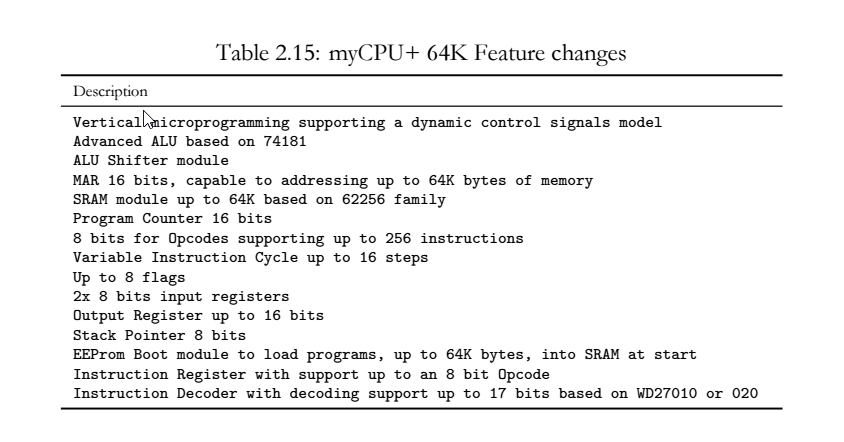
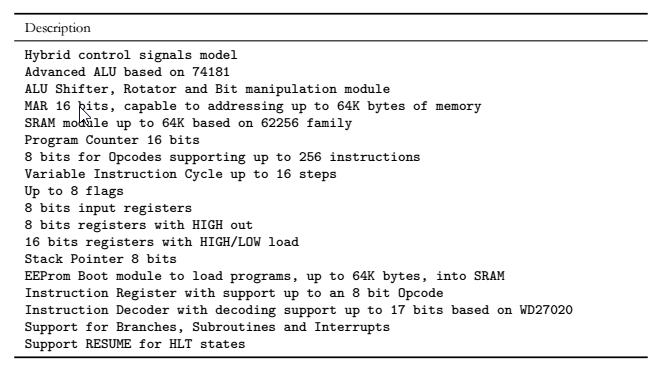
Update Introduction content, tables and pictures

Changed region(s): [[0.03, 0.0293, 0.991, 0.968], [0.6607, 0.704, 0.7508, 0.7627]]

diff --git a/pages/en/mycpu/introduction.md b/pages/en/mycpu/introduction.md
@@ -386,7 +386,7 @@ The myCPU is a basic approximation of an early CPU with limited capabilities com
 Next image shows an example of the instruction cycle for the ADD instruction:
 
 <figure class="center">
-    <img src="{{ site.baseurl }}/img/mycpu/diagrams/myCPU_instruction_cycle_flow.png" alt="Instruction cycle example" title="Example of ADD Instruction cycle" width="850">
+    <img src="{{ site.baseurl }}/img/mycpu/diagrams/mycpu_instruction_cycle_flow.png" alt="Instruction cycle example" title="Example of ADD Instruction cycle" width="730">
     <figcaption>ADD Instruction cycle sample diagram</figcaption>
 </figure>
 
@@ -444,7 +444,7 @@ In the myCPU the decoding of an instruction is based on the address for the memo
 {: style="text-align: justify"}
 
 <figure class="center">
-    <img src="{{ site.baseurl }}/img/mycpu/diagrams/mycpu_encoding_parts.png" alt="myCPU Encoding Parts" title="myCPU Encoding Part" width="600">
+    <img src="{{ site.baseurl }}/img/mycpu/diagrams/mycpu_encoding_parts.png" alt="myCPU Encoding Parts" title="myCPU Encoding Part" width="440">
 </figure>
 
 The **Sequencer** determine the current step or state of the instruction cycle, in the myCPU the sequence is up to 8 steps. The sequencer step value is used in a multiplexed form as part of the encoding address, so is 3 bits length.
@@ -462,82 +462,134 @@ Therefore, the decoding address for the microinstruction to execute  will be det
     <img src="{{ site.baseurl }}/img/mycpu/tables/myCPU_micro_encoding_parts.png" alt="myCPU Microinstruction encoding parts" title="myCPU Microinstruction encoding parts" width="600">
 </figure>
 
+<figure class="center">
+    <img src="{{ site.baseurl }}/img/mycpu/schematics/myCPU_Decoder_AddrBitOrder.png" alt="Instruction decoder address bit order" title="Instruction decoder address bit order" width="400">
+    <figcaption>Instruction Decoder address bit order</figcaption>
+</figure>
+
 The **Memory Selection** bits determine which memory unit will be used to encode or decode each byte part of a microinstruction. In the myCPU design, a microinstruction is composed of 24 bits or 3 bytes, which are handled by three memory units.
 {: style="text-align: justify"}
 
 <figure class="center">
-    <img src="{{ site.baseurl }}/img/mycpu/diagrams/mycpu_micro_parts.png" alt="myCPU Microinstruction parts" title="myCPU Microinstruction parts" width="600">
-</figure>
-
-<figure class="center">
-    <img src="{{ site.baseurl }}/img/mycpu/schematics/myCPU_Decoder_AddrBitOrder.png" alt="Instruction decoder address bit order" title="Instruction decoder address bit order" width="400">
-    <figcaption>Instruction Decoder address bit order</figcaption>
+    <img src="{{ site.baseurl }}/img/mycpu/diagrams/mycpu_micro_parts.png" alt="myCPU Microinstruction parts" title="myCPU Microinstruction parts" width="500">
 </figure>
 
 The decoded microinstruction is passed to the **CSM** (control signals manager), which is responsible to expose the appropriate control signal values to the logic components of the myCPU.
 {: style="text-align: justify"}
 
 #### Testing and Debugging the myCPU
-The are two sets of switches to test the electronic behavior of the myCPU:
+The myCPU design has support for debugging by stepping the execution flow at a clock cycle level, viewing the state of the logic components of the CPU in real time. Through a set of DIP switches added on the CSM module, we can setup and execute isolated microinstructions whether partial or complete microinstruction, and see what happens on the logic components of myCPU. 
 {: style="text-align: justify"}
 
-The **BUS Manager** module in the myCPU design includes test switches that can be used to set the current values of the data BUS.
+In addition, the myCPU design has support for input test values to check module behavior or include test values in the debug process of a microinstruction through a set of DIP switches added on the BUS Manager module. In myCPU we can test and debug an entire instruction by testing and debugging the particular microinstructions that composed it.
 {: style="text-align: justify"}
 
-The **Control Signals Manager (CSM)** module also have test switches that enable the activation of individual control signals. By using the CSM switches, it is possible to test individual module actions or configure a real microinstruction by combining multiple switches at a time, to test, statically, the myCPU modules behavior when they are all acting together.       
+<figure class="center">
+    <img src="{{ site.baseurl }}/img/mycpu/tables/myCPU_switches.png" alt="myCPU Test and debug switches" title="myCPU Test and debug switches" width="500">
+    <figcaption>myCPU Test and debug switches</figcaption>
+</figure>
+
+#### Testing Modules
+In myCPU we can test the electronic and logic behavior of modules by introducing testing values through the BUS Manager module and set specific control signals through the CSM module. This is possible thanks to the debug mode of the clock module that enables the myCPU in stepping mode.
 {: style="text-align: justify"}
+
+The **BUS manager** has two DIP switches of 8 bits each to put a 16 bits test value on the Data BUS, by setting up a specific value on the switches and pressing the TEST button. 
+{: style="text-align: justify"}
+
+<figure class="center">
+    <img src="{{ site.baseurl }}/img/mycpu/mycpu_busmanager_switches_min.png" alt="myCPU BUS Manager switches" title="myCPU BUS Manager switches" width="400">
+    <figcaption>myCPU BUS Manager switches</figcaption>
+</figure>
+
+The **CSM module** has two DIP switches of 12 bits each, to set a test value for each individual control signal.
+By using the CSM switches, is possible to trigger module actions, or to configure a real microinstruction by combining multiple switches at a time.   
+{: style="text-align: justify"}
+
+<figure class="center">
+    <img src="{{ site.baseurl }}/img/mycpu/mycpu_csm_switches_min.png" alt="myCPU CSM switches" title="myCPU CSM switches" width="400">
+    <figcaption>myCPU CSM switches</figcaption>
+</figure>
 
 >Combining the BUS Manager and CSM switches you can reproduce a true runtime execution condition statically.
 
 ##### Microinstruction debugging and testing
-The myCPU Clock module enables running the myCPU one clock cycle at a time using a push button, which facilitates debugging and allows examination of each clock cycle during runtime. This module is based on the 555 timer, and is an original design by Ben Eater, who used it in his 8-bit breadboard computer. Furthermore, the clock module enables examination of the high and low states of the clock signal independently. This feature is especially interesting because the myCPU is a synchronized system, in which microinstructions are executed during the low state of the clock signal producing some changes in the myCPU status, while other changes in the myCPU status will occur during the next high state or high edge of the clock signal.
+The myCPU Clock module support a debug mode that enable running the myCPU at one clock step at a time using a push button. This debug mode facilitates the debugging by the view of the logic state of the modules statically in real time during the execution flow. The feature to view statically the state of the modules allows to check the current values of logic elements using a digital logic tester. 
+{: style="text-align: justify"}
+
+<figure class="center">
+    <img src="{{ site.baseurl }}/img/mycpu/mycpu_clock_debug_push_min.png" alt="myCPU CSM switches" title="myCPU CSM switches" width="400">
+    <figcaption>myCPU CSM switches</figcaption>
+</figure>
+
+We can build and test an entire microinstruction by removing the Instruction Decoder connector to CSM module and configure the CSM module test switches, checking what happens to the state of logic components at the **LOW** and **HIGH** part of the clock cycle using the debug mode of the clock module.
+{: style="text-align: justify"}
+
+In myCPU, a microinstruction is executed when a control signals string is placed on the control BUS. This take place when the sequencer moves to a new step of the execution cycle and this happens during the fall state of the clock signal, so the microinstruction is executed during the LOW part of the clock cycle.
+When we are in DEBUG mode we can transit to the **RISE** state of the clock cycle by pushing the clock button and transit to the **FALL** state when the button is released, which is the default state in debug mode.
+{: style="text-align: justify"}
+
+When a microinstruction is placed on the control BUS, at the fall state of the clock signal, some changes occur modifying the state of the logic components of the myCPU, and other related changes will happen in the immediate rise state of the clock signal.
 {: style="text-align: justify"}
 
 >You can see more detailed explanation about the clock module in: [Clock Module](/pages/en/mycpu/modules/clock)
 
-#### Limitations of the myCPU
-The myCPU design has limitations for two reasons. The first reason is the need to keep aligned to the Ben Eater's breadboard computer project, taking advantage of his fantastic video lectures. The second reason is to create a smooth learning path for beginners, inexperienced electronics hobbyists, and students.
+#### Programming the myCPU
+The myCPU design includes a unique SRAM memory module acting as CPU's internal memory and as program/data memory.
 {: style="text-align: justify"}
 
->The myCPU design try to maintain a direct correspondence with the Ben Eater's breadboard computer project and take advantage of his great video lectures.[Ben Eater's site](https://eater.net/){:target="_blank"}
+Programming the myCPU involves the **MAR** and **SRAM** memory modules. The MAR module store the address for the RAM memory in read and writing operations and is only 4 bits length. The SRAM module is a very basic discrete logic memory module with capacity to only 16 bytes. The MAR module is connected to the SRAM module through an **Address Connector** to setup the address of the SRAM memory module in both, RUN or PROG mode. The myCPU design has not a dedicated Address BUS.
+{: style="text-align: justify"}
 
-Although the myCPU is a valuable learning and development platform, it is a very limited CPU with some limitations due to the fact of the myCPU was not designed prioritizing performance or advanced functionality. Some of these limitations will be reduced or removed in the next releases, myCPU256 and myCPU+. Building the myCPU using discrete logic and basic TTL integrated circuits could also cause several drawbacks in the design and electrical issues due to the TTL known issues.
+The myCPU Programming is performing by the introduction of a program into the program memory. This operation is realized manually using the DIP switches provided by the MAR and the SRAM memory modules. The MAR module includes in its design a switch to alternate the operation mode between "**RUN**" and "**TEST**", and a **4 bits DIP switch** to introduce a memory address. The address set at the MAR DIP switch will be exposed through the Address Connector whenever the MAR is in TEST mode. 
+{: style="text-align: justify"}
+
+The SRAM memory module includes also a switch to enable the "**PROG**" mode and a **8 bits DIP switch** to configure the data to store into memory. The data configured on the switches will be write to memory when the WRITE button is pressed whenever the mode switch is in the PROG mode.
 {: style="text-align: justify"}
 
 <figure class="center">
-    <img src="{{ site.baseurl }}/img/mycpu/tables/myCPU_limitations.png" alt="myCPU Limitations" title="myCPU Limitations" width="800">
+    <img src="{{ site.baseurl }}/img/mycpu/mycpu_mar_sram_switches_min.png" alt="myCPU MAR/SRAM switches" title="myCPU MAR/SRAM switches" width="400">
+    <figcaption>myCPU MAR/SRAM switches</figcaption>
 </figure>
 
-The **ALU** was designed using just 4-bit adders with the consequent limitation to adding operations and subtracting using the 2´s complement approach. But only the B operand in converted to 2's complement so the sustracting is limited to A + (-B).
+#### Limitations of the myCPU
+The myCPU design has basic limitations for two reasons. The first one reason is that the myCPU project is based on the Ben Eater's breadboard computer project and for taking advantage of his fantastic video lectures it was necessary to keep aligned the myCPU project with his project in some way. The second one is to provide a soft approach to a CPU basic operation for beginners, inexperienced electronics hobbyists and students acting as an introductory project to the CPU  building and programming. 
 {: style="text-align: justify"}
 
-The **SRAM** module is based on the 74219 or the 74189 which is a very limited SRAM chip of 16 x 4 bits. The limited available memory, to 16 bytes, limiting the possibility to write complex or large programs because of the limit to 16 instructions. I understand that the SRAM limit is a hard inconvenient but remember that myCPU is a learning platform and you can explore the basics of a CPU and a programmable computer using just 12 to 14 instructions.
+>The myCPU design try to keep aligned with the Ben Eater's breadboard computer project and to get the benefits of his great video lectures. [Ben Eater's site](https://eater.net/){:target="_blank"}
+
+Despite its limitations, myCPU is a valuable learning and development platform, and some of these limitations will be overcome in the planned next releases. Some of these limitations are listed bellow:
 {: style="text-align: justify"}
 
-Due to the limitation of SRAM, **memory address register (MAR)** has a limit to 4-bit address. Does not make sense make it bigger.
+<figure class="center">
+    <img src="{{ site.baseurl }}/img/mycpu/tables/myCPU_limitations.png" alt="myCPU Limitations" title="myCPU Limitations" width="700">
+</figure>
+
+The **ALU** was designed using just 4-bit adders with the consequent limitation to just addition operations, and subtracting using the 2´s complement approach. Only the B operand in converted to 2's complement so the subtracting is limited to A + (-B) form.
 {: style="text-align: justify"}
 
-The **Instruction Register** has a limitation to 4 bits for the instruction opcode and this limit the possible max length of the instruction set to 16 instructions.
+The **SRAM** module is based on the **74xx189** which is a very limited SRAM chip of 16 x 4 bits using 2 of them to support up to 16 Bytes. The limited available memory, to 16 Bytes, prevents the possibility to write more than simple test programs because are limited to 16 instructions. Due to the limitation of SRAM, the Memory **Address Register (MAR)** has a limited length to 4 bits address.
+The MAR and SRAM limit could be a hard inconvenient but remember that myCPU is a learning platform and you can explore the basics of a CPU and a programmable computer using just 12 to 14 instructions including conditional jumps.
 {: style="text-align: justify"}
 
-In this release, there is **no input register module** and no dedicated control signals for inputs. However, it is possible to design your own 8-bit input register and dedicate one of the control signals from other purposes to the input register. Afterwards, you can add a specific instruction to your instruction set to load data from the input register into the A register. An input register is planned to be included in the next releases, myCPU256 and myCPU+.
+The **Instruction Register** has a limitation to 4 bits for the instruction opcode and 4 bits for the instruction argument. Limiting the possible maximum length of the ISA (Instruction Set) to 16 instructions and limit the argument to 0x0F (15) as  maximum value. For beginners, this limitation become an advantage providing a better a more easy way to understand and follow the execution flow and the debugging process.
 {: style="text-align: justify"}
 
->keep in mind that the myCPU is not just a device executing a machine code program, its more than that, myCPU is a platform letting you to show what happens on a digital system, like a CPU, during the execution of a program.
+In this first release, there is no input register module. However, is possible to use the BUS Manager module as input port by using the "**SI**" control signal, to expose the value at the BUS Manager DIP switches to the Data BUS. In the myCPU basic ISA there's an instruction for this purpose: the **LDP** instruction. You can see more details at the BUS Manager module page: [BUS Manager](/pages/en/mycpu/modules/bus_manager) 
+{: style="text-align: justify"}
+
+>keep in mind that the myCPU is not just a device executing a machine code program, its more than that, myCPU is a platform which let you to show what happens on a digital system, like a CPU, during the execution of a program.
 {: style="text-align: justify"}
 
 #### Electronic improvements of myCPU
-The myCPU, because of its PCB based design, include several electronic improvements respect the original breadboard project.
+The myCPU project has several electronic improvements over the original Ben Eater's Breadboard project. These improvements and the implementation of basic rules in digital electronics are possible because myCPU uses a PCB design, which is hard to implement with breadboards. Some of them are listed bellow:
 {: style="text-align: justify"}
 
-You can review some of these improvements in the table below:
-
 <figure class="center">
-    <img src="{{ site.baseurl }}/img/mycpu/tables/myCPU_electronics.png" alt="myCPU Improvements" title="myCPU Improvements" width="800">
+    <img src="{{ site.baseurl }}/img/mycpu/tables/myCPU_electronics.png" alt="myCPU Improvements" title="myCPU Improvements" width="700">
 </figure>
 
 #### myCPU Roadmap
-The main and final goal of the myCPU is desing a totally capable and functional CPU emulating a 6502 or a Z80 including a reduced basic interpreter and support to 64K of SRAM using the same open and modular platform with only discrete logic. To reach this goal the project will pass through a set of steps to evolve the myCPU since an early stage with the first release of myCPU, following with the myCPU256 and myCPU2K, until the most advanced releases near a small computer the myCPU+ 32/64K.
+The main and final goal of the myCPU project is to desing a totally capable and functional CPU emulating a 6502 or a Z80 with support up to 64K of SRAM. Proposing a platform based on an open architecture and modular paradigms and using only discrete logic. To reach this goal the project will navigate through a set of steps to evolve from an early stage of myCPU with the first release of myCPU16, following with the myCPU256 and myCPU2K, to the most advanced releases the myCPU+ 32/64K probably with support for a BASIC interpreter and a C compiler, closer to a tiny computer.
 {: style="text-align: justify"}
 
 Below picture shows, graphically, the roadmap of the myCPU project:
@@ -548,44 +600,51 @@ Below picture shows, graphically, the roadmap of the myCPU project:
 </figure>
 
 ##### myCPU 16
-The first release of myCPU planned to the summer of 2023. With the limitation to  only 16 bytes of memory that enable to execute very small programs up to 16 bytes length and capable only to support an instruction set up to 16 instructions.
+The first release of myCPU, planned to the summer of 2024. Limited to only 16 bytes of memory enabling to execute very small programs up to 16 bytes length and capable only to support an instruction set up to 16 instructions. This book is dedicated to this myCPU16 release.
 {: style="text-align: justify"}
 
 ##### myCPU 256
-This improved version of myCPU 16 includes several notable changes. Firstly, an 8 bits Memory Address Register (MAR) capable of addressing up to 256 bytes of SRAM. Secondly, the number of supported instructions has been increased to a total of 32. Additionally, this version will  includes a new CMOS SRAM module up to 2Kx8, although for this release only 256 bytes can be  used due to the MAR limitation. Lastly, an updated Instruction Decoder module, which can support the expanded instruction set size and will be based on the AT28C256 EEprom memory.
+This improved version of myCPU16 will includes several notable changes. Firstly, an 8 bits Memory Address Register (MAR) capable of addressing up to 256 bytes of SRAM. Secondly, the number of supported instructions will be increased to a total of 64, a good number to experimenting with the ISA. Additionally, this version will includes a new SRAM module up to 2K, although for this release only 256 bytes can be used due to the MAR address length limit. Lastly, an updated Instruction Decoder module, which can support the extended instruction set and will be based on the \textbf{W27C010} EEprom memory. Basically is a myCPU16 with support up to 256 Bytes of memory and up to 64 instructions for the ISA.
 {: style="text-align: justify"}
 
+Included features in the myCPU 256 are pointed below:
+
 <figure class="center">
-    <img src="{{ site.baseurl }}/img/mycpu/tables/myCPU_256_features.png" alt="myCPU 256 Features" title="myCPU 256 Features" width="800">
+    <img src="{{ site.baseurl }}/img/mycpu/tables/myCPU_256_features.png" alt="myCPU 256 Features" title="myCPU 256 Features" width="700">
 </figure>
 
 ##### myCPU 2K
-This is a small evolution from de myCPU 256. The only changes regarding the myCPU 256 are: a new 16 bits MAR module capable to addressing up to 2K bytes and more, a program counter up to 16 bits capable to count up to 2K and more, and an improvement EEProm Boot module to support the loading up to 2K bytes program length.
+This is a small evolution from the myCPU256. It will includes: a 16 bits MAR module and a 16 bits program counter both capable to manage addresses up to 64K, far enough to the 2K version needs. In this release the Sequencer will be modified to support up to 16 steps per execution cycle to enable the triple fetch cycle capability. The 8 bits C register will be modified to support the output to the higher word of the 16 bits data BUS enabling to calculate 16 bits addresses with 6668 bits registers.
 {: style="text-align: justify"}
 
+Regards to programming: the increase in memory size, allows to include instruction addressing modes and conditional branches; and the triple fetch cycle capability enabled two 8 bits arguments per instruction which is necessary to manage 16 bits values using 8 bits data blocks.
+{: style="text-align: justify"}
+
+Included features in the myCPU2K are pointed below:
+
 <figure class="center">
-    <img src="{{ site.baseurl }}/img/mycpu/tables/myCPU_2K_features.png" alt="myCPU 2K Features" title="myCPU 2K Features" width="800">
+    <img src="{{ site.baseurl }}/img/mycpu/tables/myCPU_2K_features.png" alt="myCPU 2K Features" title="myCPU 2K Features" width="700">
 </figure>
 
 ##### myCPU+ 64K
-This a very strong evolution regarding the myCPU releases: 16, 256 or 2K. One of the most radical advance is the change of the microprogramming paradigm, coming from a horizontal and static control signal model to a vertical paradigm with a dynamic control signals model. This model of microprogramming enable handle a large number and more complex logic devices with a reduced set of control signals.
+This version will be a very strong evolution regarding the myCPU releases: 16, 256 or 2K. One of the most radical advance is the change of the microprogramming paradigm, coming from a horizontal and static control signal model to a hybrid model paradigm including some static control signals and some multiplexed as a dynamic control signals model. This model of microprogramming enables to handle a large number and more complex logic components with a reduced set of control signals.
 {: style="text-align: justify"}
 
-Other advantages of the myCPU+ is an advanced ALU module based on the 74181 ALU IC, a stack pointer 8-bit module, the support of more deep instruction decoding up to 17 bits which will get a capability to design and manage a 256 instructions set, an instruction cycle length up to 16 steps or a full SRAM module up to 32/64K based on the 62256 family CMOS SRAM ICs.
+Other advantages of the myCPU+ will be an advanced **ALU** module based on the **74xx181**, a special logic module for bit manipulation, shifting and rotating binary values, an 8 bits stack pointer module, support to a more extended instruction decoding up to 17 bits which will get a capability to design and manage an ISA of 256 instructions, or a full SRAM module up to 32/64K based on the 62256 SRAM family.
 {: style="text-align: justify"}
 
 A full list of the feature changes of the myCPU+ is shown below:
 
 <figure class="center">
-    <img src="{{ site.baseurl }}/img/mycpu/tables/myCPU+_64K_features.png" alt="myCPU+ 64K Features" title="myCPU+ 64K Features" width="800">
+    <img src="{{ site.baseurl }}/img/mycpu/tables/myCPU+_64K_features.png" alt="myCPU+ 64K Features" title="myCPU+ 64K Features" width="700">
 </figure>
 
 #### Future Modules
-The next releases of myCPU project, involved a new set of modules to provide 16 bits data support, increasing memory addressing capabilities and add more features and improvements to reach the most capable myCPU+.
+All of the next releases of the myCPU project coming from the first myCPU16, involved a new set of modules to provide 16 bits data support, increasing memory addressing capabilities and add more features and improvements to reach the most capable myCPU+.
 {: style="text-align: justify"}
 
 In the table below you can see a list of planned modules:
 
 <figure class="center">
-    <img src="{{ site.baseurl }}/img/mycpu/tables/myCPU_future_modules.png" alt="myCPU Planned Modules" title="myCPU Planned Modules" width="800">
+    <img src="{{ site.baseurl }}/img/mycpu/tables/myCPU_future_modules.png" alt="myCPU Planned Modules" title="myCPU Planned Modules" width="700">
 </figure>
